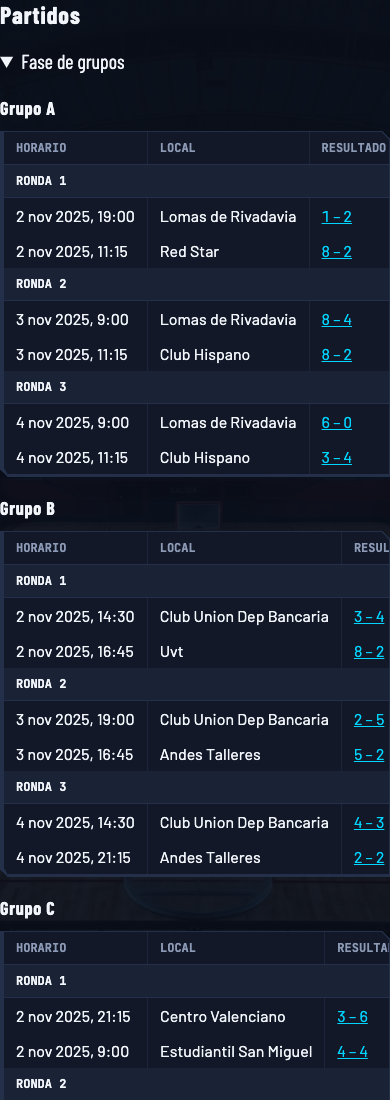
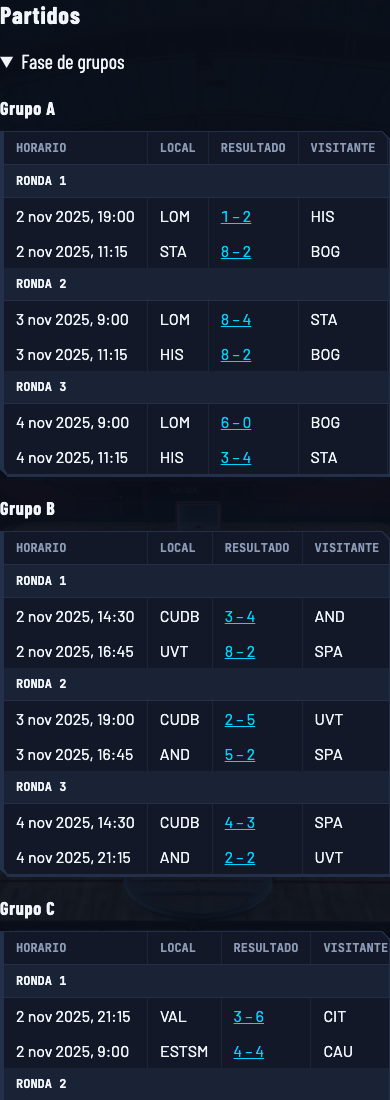
feat(web): show club abbreviations in the schedule table on a narrow screen
DataTable columns may declare an abbreviation that replaces the cell's text below 768 px, with the full text as the tooltip, so the table scrolls less sideways.

diff --git a/apps/web/src/components/ui/organisms/table-and-modal-owners.test.ts b/apps/web/src/components/ui/organisms/table-and-modal-owners.test.ts
@@ -44,6 +44,12 @@ describe('DataTable.astro sections and cell links', () => {
     expect(dataTable).toContain('column.href?.(row)');
     expect(dataTable).toContain('column.datetime?.(row)');
   });
+
+  it('swaps a cell for its abbreviation on a narrow screen and keeps the full text as the tooltip', () => {
+    expect(dataTable).toContain('column.abbreviation?.(row)');
+    expect(dataTable).toContain('<abbr class="cl-data-table__short" title={text}>');
+    expect(dataTable).toMatch(/@media \(max-width: 767px\)[\s\S]*cl-data-table__short/);
+  });
 });
 
 describe('Modal.astro', () => {
